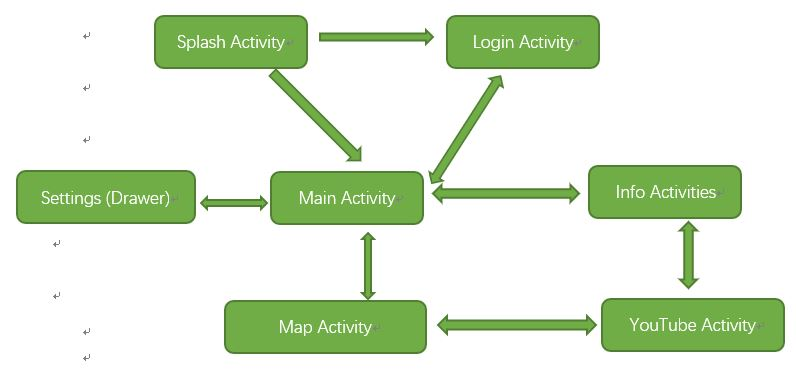
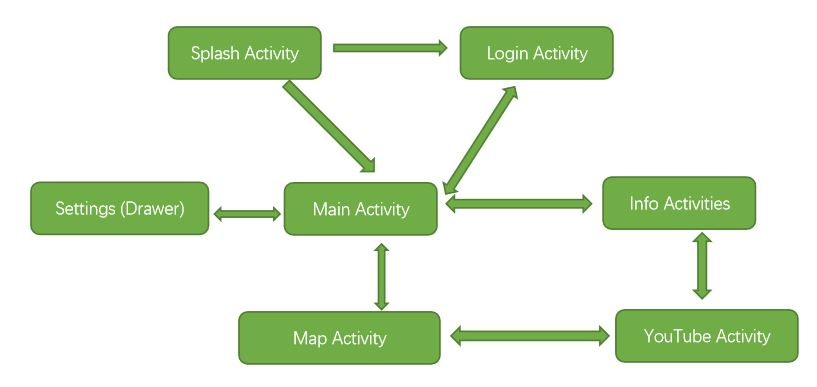
update screenshots

Changed region(s): [[0.0, 0.031, 0.995, 0.9612]]

diff --git a/README.md b/README.md
@@ -12,28 +12,32 @@ Device requirements for Songle:
 
 >minimum heightPixels: 1280
 
-activity structure:
+</br>Activity structure:
 
-![screenshot not found](https://github.com/Battery233/Songle/raw/master/screenshots/structure.JPG)
+![screenshot not found](https://github.com/Battery233/Songle/raw/master/screenshots/structure.jpg)
 
 ### screenshots
 
-![screenshot not found](https://github.com/Battery233/Songle/raw/master/screenshots/screenshot0.jpg)
+![screenshot not found](https://github.com/Battery233/Songle/raw/master/screenshots/01.jpg)
 
-![screenshot not found](https://github.com/Battery233/Songle/raw/master/screenshots/screenshot1.png)
+![screenshot not found](https://github.com/Battery233/Songle/raw/master/screenshots/02.jpg)
 
-![screenshot not found](https://github.com/Battery233/Songle/raw/master/screenshots/screenshot2.png)
+![screenshot not found](https://github.com/Battery233/Songle/raw/master/screenshots/03.jpg)
 
-![screenshot not found](https://github.com/Battery233/Songle/raw/master/screenshots/screenshot3.png)
+![screenshot not found](https://github.com/Battery233/Songle/raw/master/screenshots/04.jpg)
 
-![screenshot not found](https://github.com/Battery233/Songle/raw/master/screenshots/screenshot4.jpg)
+![screenshot not found](https://github.com/Battery233/Songle/raw/master/screenshots/05.jpg)
 
-![screenshot not found](https://github.com/Battery233/Songle/raw/master/screenshots/screenshot5.png)
+![screenshot not found](https://github.com/Battery233/Songle/raw/master/screenshots/06.jpg)
 
-![screenshot not found](https://github.com/Battery233/Songle/raw/master/screenshots/screenshot6.png)
+![screenshot not found](https://github.com/Battery233/Songle/raw/master/screenshots/07.jpg)
 
-![screenshot not found](https://github.com/Battery233/Songle/raw/master/screenshots/screenshot7.jpg)
+![screenshot not found](https://github.com/Battery233/Songle/raw/master/screenshots/08.jpg)
 
-![screenshot not found](https://github.com/Battery233/Songle/raw/master/screenshots/screenshot8.png)
+![screenshot not found](https://github.com/Battery233/Songle/raw/master/screenshots/09.jpg)
 
-![screenshot not found](https://github.com/Battery233/Songle/raw/master/screenshots/screenshot9.jpg)
+![screenshot not found](https://github.com/Battery233/Songle/raw/master/screenshots/10.jpg)
+
+![screenshot not found](https://github.com/Battery233/Songle/raw/master/screenshots/11.jpg)
+
+![screenshot not found](https://github.com/Battery233/Songle/raw/master/screenshots/12.jpg)
